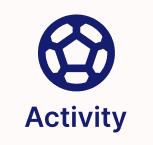
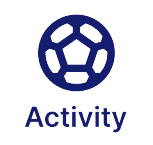
frontend done main-page

diff --git a/src/main/webapp/main-search.html b/src/main/webapp/main-search.html
@@ -7,7 +7,6 @@
 </head>
 <script src="main-search.js"></script>
 <script>
-    var tempC = document.getElementById("currTemperature").textContent;
     
     function loadPage() {
         document.getElementById("locationText").focus();
@@ -35,6 +34,32 @@
         }
     }
     
+    var animateInterval;
+    var currentIndex=0;
+    var values = [1.0,1.1,1.2,1.3,1.4,1.5,1.4,1.3,1.2,1.1];
+    
+    function animateFunc() {
+        var image = document.getElementById('icon');
+        var string = '-webkit-filter: brightness(' + values[currentIndex] +')';
+        image.setAttribute('style',string);
+        if (!values[currentIndex]) {
+           currentIndex = 0;
+        } else {
+           currentIndex++;
+        }
+    }
+    
+    function change() {        
+        animateInterval = setInterval(animateFunc, 100);
+    }
+    function unchange() {
+        clearInterval(animateInterval); 
+        var image = document.getElementById('icon');
+        image.setAttribute('style','-webkit-filter: brightness(1.0)');
+        currentIndex = 0;
+    }
+
+    
 </script>
 <body onload="loadPage()">
     <div id="weatherDisplayArea">
@@ -43,7 +68,7 @@
             <label id="currDate">| Mar 10, 2020</label>
         </p>
         <p>
-            <img name="icon" src="smiley.gif" height="42" width="42">
+            <img id="icon" onmouseover="change()" onmouseout="unchange()" src="img/activity.png" height="42" width="42" >
             <label id="currTemperature">18</label>
             <label id="units">°C</label>
         </p>

diff --git a/src/main/webapp/css/main-search.css b/src/main/webapp/css/main-search.css
@@ -46,6 +46,7 @@ label {
 
 #currDescription {
     font-size: 13px;
+    background-color: aqua;
 }
 
 #submitButton {
@@ -134,6 +135,10 @@ input:checked + .slider:before {
 .navbar a:hover {
   background-color: #ddd;
   color: black;
+}
+
+#icon{
+background-color: black;
 }
 
 
